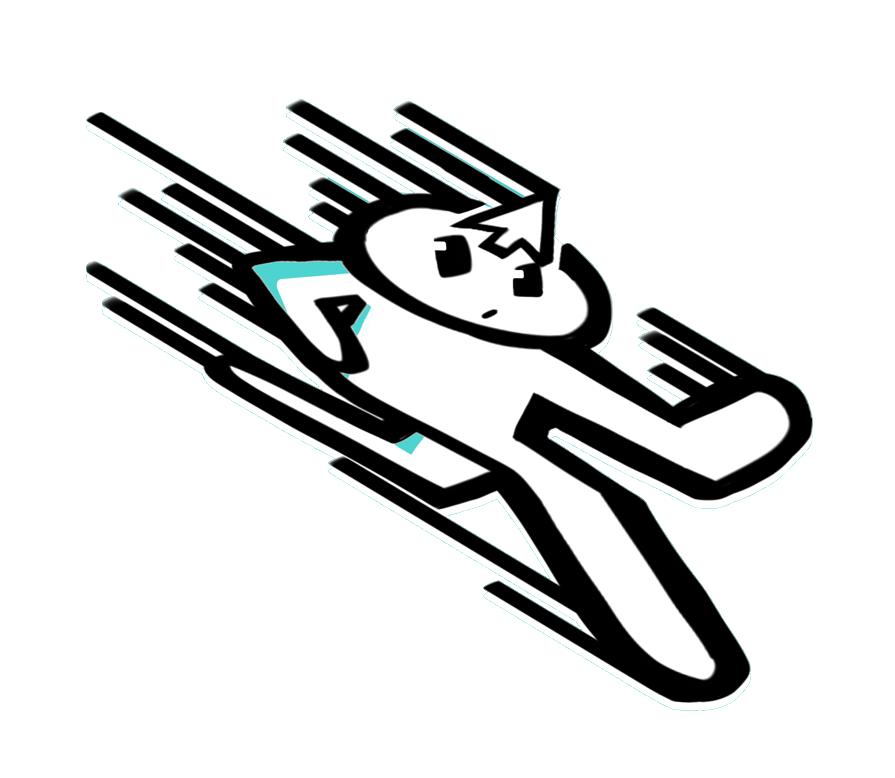
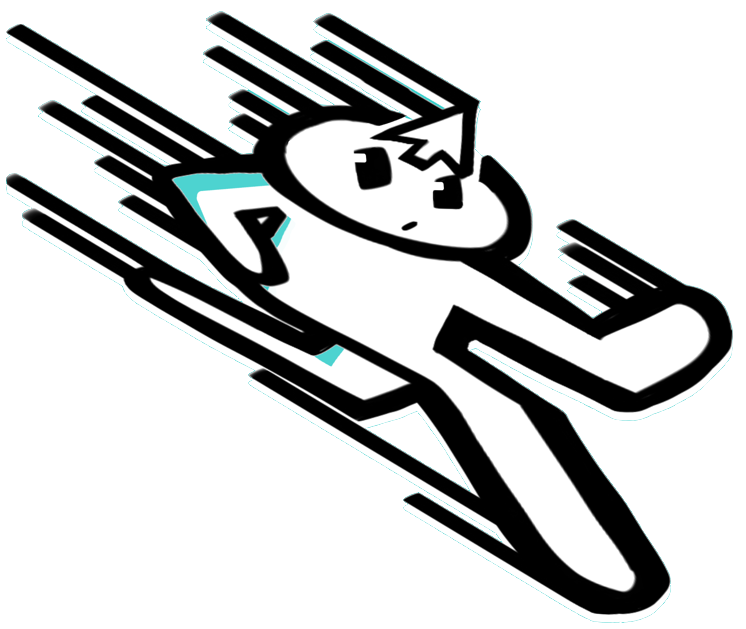
Add files via upload

Changed region(s): [[0.0, 0.0, 0.9866, 0.9968]]

diff --git a/css/ptghomepage.css b/css/ptghomepage.css
@@ -3,19 +3,19 @@ body{
 	overflow:scroll;
 }
 
-@media screen and (min-width:769px){
 main{
 	display:inline-flex;
+	flex-grow:1;
 	justify-content:center;
 	align-items: center;
 	width:550px;
 	padding:10px;
-	margin:5%;
-}
+	margin-top:7%;
 }
 
+
 #runningguy{
-	margin:auto;
+	margin:5%;
 	display:block;
 	position: relative;
 	top:-24px;
@@ -25,13 +25,14 @@ main{
 	position:relative;
 	top: 20px;
 	left:-550px;
+	margin:0px;
 }
 
 #startbutton{
 	font-family:no_continue;
 	font-size:80px;
 	position: absolute;
-	transform:rotate(33deg);
+	transform:rotate(34deg);
 }
 
 #startbutton:hover{

diff --git a/css/ptgcontact.css b/css/ptgcontact.css
@@ -10,21 +10,22 @@
 
 body{
 	background-color:white;
-	overflow:hidden;
+	overflow:scroll;
 }
 
 
 #contactguy{
-	height:86vh;
+	height:100vh;
 	float:left;
 }
 
 #maintext{
-	text-align:center;
-	font-size:25px;
+	display:inline-flex;
+	justify-content:center;
+	flex-direction:column;
+	font-size:30px;
 	font-family: alphakind;
-	position:relative;
-	bottom:-80px;
+	margin:7%;
 }
 
 #sendbutton{
@@ -57,8 +58,9 @@ input[type="email"]{
 }
 
 textarea{
-	width:250px;
+	width:260px;
 	height:90px;
 	border-width:3px;
 	border-color:black;
+	padding:10px;
 }

diff --git a/index.html b/index.html
@@ -21,7 +21,7 @@
 			
 			<main>
 					<div id="center">
-					<img id="runningguy" height="550" width="600" src="images/runningguy.png" alt="point and go mascot"/>
+					<img id="runningguy" height="500" width="600" src="images/runningguy.png" alt="point and go mascot"/>
 					</div>
 					<div id="startsection">
 					<a href="adventure.html"><img id="startbutton" height="110" width="270" src="images/start.png" alt="start button to begin"></a>

diff --git a/contact.html b/contact.html
@@ -24,9 +24,9 @@
 			<div id="maintext">
 			<h1>FOR INQUIRIES!</h1>
 			<form>
-				NAME <input type="text" size="25">
+				name <input type="text" size="25">
 				<br>
-				EMAIL <input type="email" size="25">
+				email <input type="email" size="25">
 				<br>
 				<textarea name="subject" placeholder="type your question here!"></textarea>
 				<br>

diff --git a/css/ptgabout.css b/css/ptgabout.css
@@ -4,11 +4,11 @@
 }
 body{
 	background-color:white;
-	overflow:hidden;
+	overflow:scroll;
 }
 
 #aboutguy{
-	height:86vh;
+	height:100vh;
 	float:left;
 }
 
